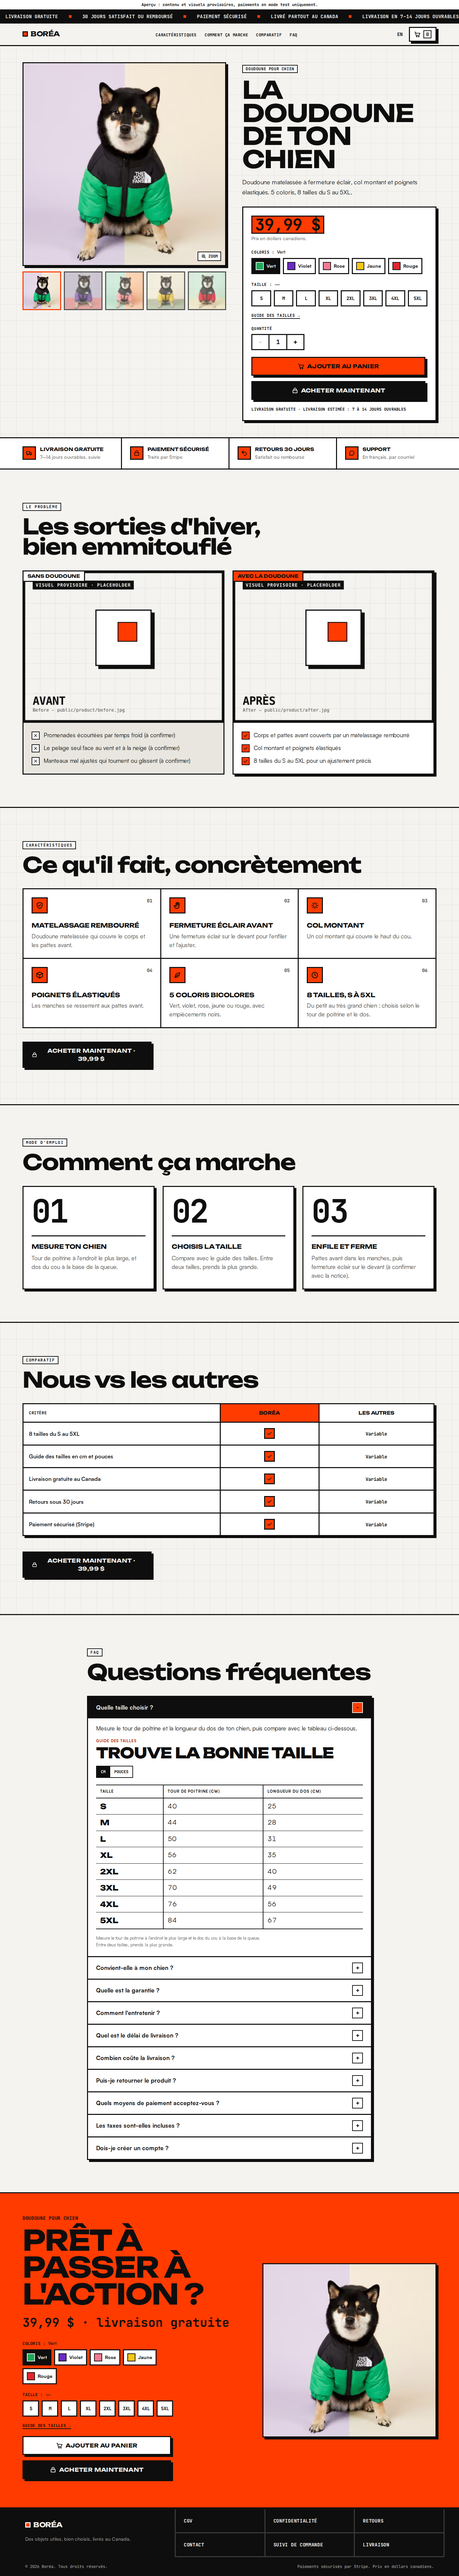
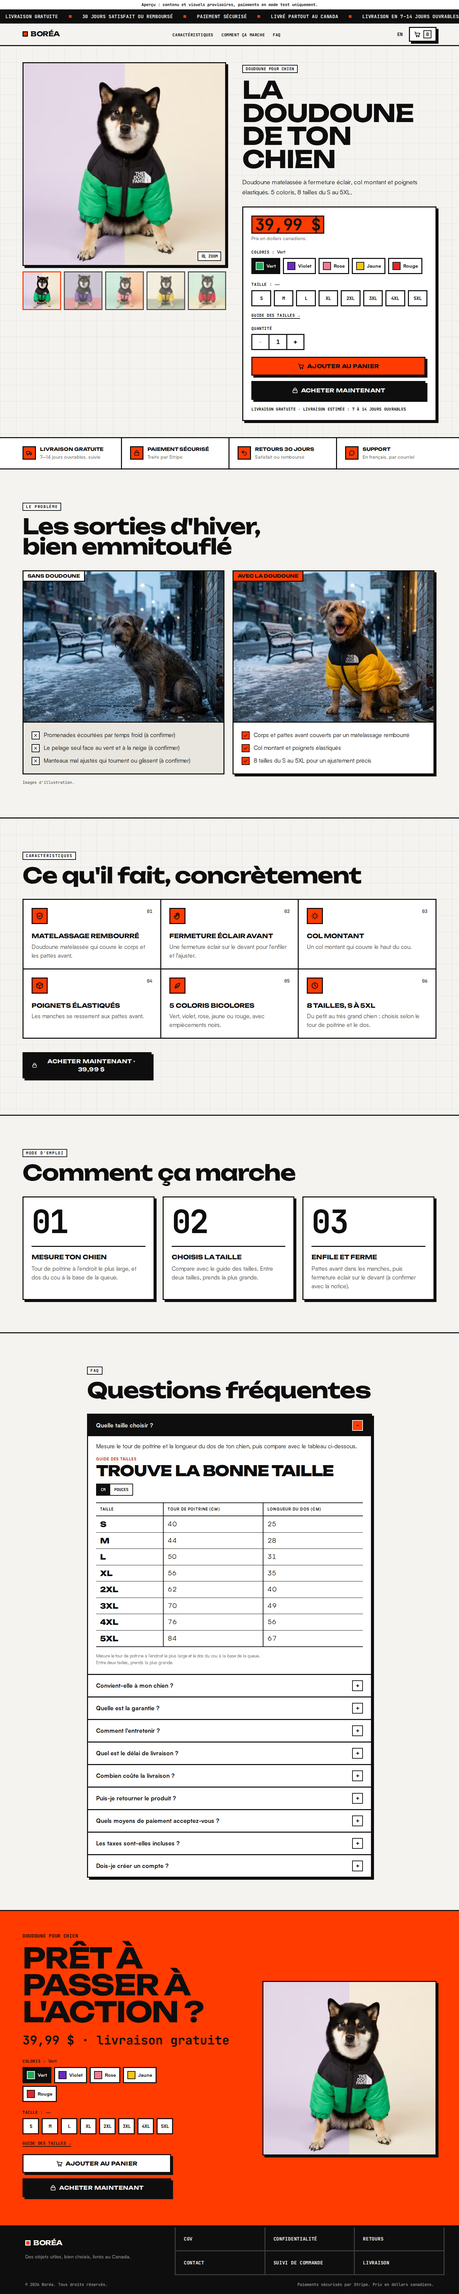
Avant/après avec photos réelles, retrait du comparatif « Nous vs les autres »
- Section avant/après : deux photos d'illustration fournies (chien sans
  doudoune / avec la doudoune jaune), cadrage ajusté, mention « Images
  d'illustration »
- Retrait de la section comparatif (page, navigation, données, textes, tests)
- Photos renommées pour éviter le cache de l'optimiseur d'images ; astuce
  documentée dans public/product/README.md et le README

Claude-Session: https://claude.ai/code/session_015ZWNekjjGsYSCxesdhKs7Q

Changed region(s): [[0.0, 0.0, 1.0, 0.9991]]

diff --git a/src/components/store/sections.tsx b/src/components/store/sections.tsx
@@ -1,7 +1,7 @@
 import Image from "next/image";
 import { getMedia, product, reviewSummary } from "@/config/product";
 import { store } from "@/config/store";
-import type { Locale, Localized } from "@/config/types";
+import type { Locale } from "@/config/types";
 import { fmt, getDictionary } from "@/content";
 import { defaultShipping, deliveryEstimate } from "@/lib/catalog";
 import { FeatureIcons, IconChat, IconCheck, IconClose, IconLock, IconReturn, IconTruck } from "../ui/icons";
@@ -47,7 +47,7 @@ export function ProblemSolution({ locale }: { locale: Locale }) {
   const col = (side: typeof ps.before, kind: "before" | "after") => (
     <div className={`flex flex-col border-[3px] border-ink ${kind === "after" ? "bg-white shadow-[var(--shadow-hard)]" : "bg-sand"}`}>
       <div className="relative border-b-[3px] border-ink">
-        <ProductImage media={getMedia(side.mediaId)} locale={locale} sizes="(min-width: 768px) 45vw, 100vw" className="aspect-[4/3] w-full object-cover" />
+        <ProductImage media={getMedia(side.mediaId)} locale={locale} sizes="(min-width: 768px) 45vw, 100vw" className="aspect-[4/3] w-full object-cover object-[62%_50%]" />
         <span className={`absolute left-0 top-0 border-b-[3px] border-r-[3px] border-ink px-3 py-1 font-display text-sm font-bold uppercase ${kind === "after" ? "bg-accent" : "bg-white"}`}>
           {side.title[locale]}
         </span>
@@ -74,6 +74,7 @@ export function ProblemSolution({ locale }: { locale: Locale }) {
         <Reveal>{col(ps.before, "before")}</Reveal>
         <Reveal delay={100}>{col(ps.after, "after")}</Reveal>
       </div>
+      <p className="mt-4 font-mono text-xs text-muted">{t.illustration}</p>
     </div>
   );
 }
@@ -174,56 +175,6 @@ export function Reviews({ locale }: { locale: Locale }) {
         </ul>
       </div>
     </section>
-  );
-}
-
-/** 9. Comparatif « Nous vs les autres » */
-export function Comparison({ locale }: { locale: Locale }) {
-  const t = getDictionary(locale).blocks;
-  const cell = (v: boolean | Localized, us: boolean) =>
-    typeof v === "boolean" ? (
-      <span className={`inline-flex size-8 items-center justify-center border-[3px] border-ink ${v ? (us ? "bg-accent" : "bg-white") : "bg-white"}`}>
-        {v ? <IconCheck width={18} height={18} /> : <IconClose width={16} height={16} />}
-        <span className="sr-only">{v ? t.yes : t.no}</span>
-      </span>
-    ) : (
-      <span className="font-mono text-xs font-bold sm:text-sm">{v[locale]}</span>
-    );
-  return (
-    <div className={wrap}>
-      <Reveal>
-        <Eyebrow>{t.compareEyebrow}</Eyebrow>
-        <SectionTitle id="compare-title">{t.compareTitle}</SectionTitle>
-      </Reveal>
-      <div className="mt-10 overflow-x-auto pb-[6px] pr-[6px]">
-        <table className="w-full border-collapse border-[3px] border-ink bg-white text-left shadow-[var(--shadow-hard)]">
-          <thead>
-            <tr>
-              <th scope="col" className="border-[3px] border-ink p-2 font-mono text-[11px] font-bold uppercase tracking-wider sm:p-4 sm:text-xs">
-                {t.compareFeature}
-              </th>
-              <th scope="col" className="w-[24%] border-[3px] border-ink bg-accent p-2 text-center font-display text-[11px] font-bold uppercase sm:p-4 sm:text-sm">
-                {store.brand.name}
-              </th>
-              <th scope="col" className="w-[28%] border-[3px] border-ink p-2 text-center font-display text-[11px] font-bold uppercase sm:p-4 sm:text-sm">
-                {product.comparison.othersLabel[locale]}
-              </th>
-            </tr>
-          </thead>
-          <tbody>
-            {product.comparison.rows.map((r, i) => (
-              <tr key={i}>
-                <th scope="row" className="border-[3px] border-ink p-2 text-sm font-semibold sm:p-4 sm:text-base">
-                  {r.label[locale]}
-                </th>
-                <td className="border-[3px] border-ink p-2 text-center sm:p-4">{cell(r.us, true)}</td>
-                <td className="border-[3px] border-ink p-2 text-center sm:p-4">{cell(r.others, false)}</td>
-              </tr>
-            ))}
-          </tbody>
-        </table>
-      </div>
-    </div>
   );
 }
 

diff --git a/data/product.ts b/data/product.ts
@@ -48,8 +48,8 @@ const media = {
   rouge: photo("rouge", "rouge.jpg", "Shiba inu portant la doudoune rouge et noire", "Shiba inu wearing the red and black puffer jacket", 1376, 768),
   detail1: placeholder("detail1", "detail-1.jpg", "détail et contenu du colis", "detail and box contents"),
   lifestyle: placeholder("lifestyle", "lifestyle.jpg", "produit en situation", "product in use", 1600, 1000),
-  before: placeholder("before", "before.jpg", "avant : le problème", "before: the problem", 1200, 900),
-  after: placeholder("after", "after.jpg", "après : la solution", "after: the solution", 1200, 900),
+  before: photo("before", "avant-hiver.jpg", "Chien sans manteau, assis sous la neige dans une rue en hiver", "Dog without a coat sitting in the snow on a winter street", 1376, 768),
+  after: photo("after", "apres-hiver.jpg", "Le même chien portant la doudoune jaune et noire sous la neige", "The same dog wearing the yellow and black puffer jacket in the snow", 1376, 768),
 } satisfies Record<string, MediaItem>;
 
 /** Coloris (l'ordre est celui du sélecteur). */
@@ -193,21 +193,6 @@ export const product = {
     { label: { fr: "Entretien", en: "Care" }, value: { fr: "À confirmer", en: "To be confirmed" } },
   ] satisfies Array<{ label: Localized; value: Localized }>,
   packageContents: [{ fr: "1 × doudoune pour chien", en: "1 × dog puffer jacket" }] satisfies Localized[],
-
-  /**
-   * Comparatif « Nous vs les autres ». Ne comparez que ce que vous pouvez prouver.
-   * `us` / `others` : true (✓), false (✗) ou un texte court.
-   */
-  comparison: {
-    othersLabel: { fr: "Les autres", en: "Others" } satisfies Localized,
-    rows: [
-      { label: { fr: "8 tailles du S au 5XL", en: "8 sizes from S to 5XL" }, us: true, others: { fr: "Variable", en: "Varies" } },
-      { label: { fr: "Guide des tailles en cm et pouces", en: "Size guide in cm and inches" }, us: true, others: { fr: "Variable", en: "Varies" } },
-      { label: { fr: "Livraison gratuite au Canada", en: "Free shipping in Canada" }, us: true, others: { fr: "Variable", en: "Varies" } },
-      { label: { fr: "Retours sous 30 jours", en: "30-day returns" }, us: true, others: { fr: "Variable", en: "Varies" } },
-      { label: { fr: "Paiement sécurisé (Stripe)", en: "Secure payment (Stripe)" }, us: true, others: { fr: "Variable", en: "Varies" } },
-    ] as Array<{ label: Localized; us: boolean | Localized; others: boolean | Localized }>,
-  },
 
   /** FAQ propre au produit. La question « Quelle taille choisir ? » affiche le tableau des tailles. */
   faq: [

diff --git a/tests/e2e/store.spec.ts b/tests/e2e/store.spec.ts
@@ -72,7 +72,8 @@ test.describe("boutique", () => {
     await expect(page.locator("#buy-box s")).toHaveCount(0);
     // Ordre des sections demandé.
     const ids = await page.locator("main > section[id]").evaluateAll((els) => els.map((e) => e.id));
-    expect(ids).toEqual(["problem", "features", "how", "compare", "faq", "final-cta"]);
+    expect(ids).toEqual(["problem", "features", "how", "faq", "final-cta"]);
+    await expect(page.locator("#compare")).toHaveCount(0);
     // Aucun débordement horizontal.
     // Aucun élément plus large que l'écran (sinon le navigateur mobile élargit la fenêtre de mise en page).
     const widths = await page.evaluate(() => ({ scroll: document.documentElement.scrollWidth, layout: window.innerWidth, client: document.documentElement.clientWidth }));
@@ -87,8 +88,8 @@ test.describe("boutique", () => {
     const page = await ctx.newPage();
     await page.goto(`${E2E_ENV.NEXT_PUBLIC_SITE_URL}/fr`);
     await page.screenshot({ path: `${SHOTS}/${info.project.name}-full.png`, fullPage: true });
-    await page.locator("#compare").scrollIntoViewIfNeeded();
-    await page.screenshot({ path: `${SHOTS}/${info.project.name}-compare.png` });
+    await page.locator("#problem").scrollIntoViewIfNeeded();
+    await page.screenshot({ path: `${SHOTS}/${info.project.name}-before-after.png` });
     await page.locator("#final-cta").scrollIntoViewIfNeeded();
     await page.screenshot({ path: `${SHOTS}/${info.project.name}-final-cta.png` });
     await page.getByRole("button", { name: /^Zoom —/ }).first().click();

diff --git a/src/app/(shop)/[locale]/page.tsx b/src/app/(shop)/[locale]/page.tsx
@@ -3,7 +3,7 @@ import { notFound } from "next/navigation";
 import { FinalCta } from "@/components/store/final-cta";
 import { Hero } from "@/components/store/hero";
 import { SectionCta } from "@/components/store/section-cta";
-import { Comparison, Faq, Features, HowItWorks, ProblemSolution, ReassuranceBand, Reviews } from "@/components/store/sections";
+import { Faq, Features, HowItWorks, ProblemSolution, ReassuranceBand, Reviews } from "@/components/store/sections";
 import { StickyBuyBar } from "@/components/store/sticky-bar";
 import { getMedia, product, reviewSummary } from "@/config/product";
 import { store } from "@/config/store";
@@ -106,10 +106,6 @@ export default async function HomePage({ params }: PageProps<"/[locale]">) {
 
       <Reviews locale={locale} />
 
-      <section id="compare" aria-labelledby="compare-title" className={`${section} bg-grid`}>
-        <Comparison locale={locale} />
-        <SectionCta id="compare" />
-      </section>
 
       <section id="faq" aria-labelledby="faq-title" className={section}>
         <Faq locale={locale} taxesAtCheckout={taxesAtCheckout} />

diff --git a/src/content/fr.ts b/src/content/fr.ts
@@ -183,6 +183,7 @@ export const fr = {
   },
   blocks: {
     reassurance: { shipping: "Livraison gratuite", shippingText: "{min}–{max} jours ouvrables, suivie", payment: "Paiement sécurisé", paymentText: "Traité par Stripe", returns: "Retours {days} jours", returnsText: "Satisfait ou remboursé", support: "Support", supportText: "En français, par courriel" },
+    illustration: "Images d'illustration.",
     problemEyebrow: "Le problème",
     featuresEyebrow: "Caractéristiques",
     featuresTitle: "Ce qu'il fait, concrètement",
@@ -191,10 +192,6 @@ export const fr = {
     reviewsEyebrow: "Avis clients",
     reviewsTitle: "Ce qu'en disent les clients",
     verified: "Achat vérifié",
-    compareEyebrow: "Comparatif",
-    compareTitle: "Nous vs les autres",
-    compareUs: "Nous",
-    compareFeature: "Critère",
     yes: "Oui",
     no: "Non",
     faqTitle: "Questions fréquentes",

diff --git a/src/content/en.ts b/src/content/en.ts
@@ -185,6 +185,7 @@ export const en: Dictionary = {
   },
   blocks: {
     reassurance: { shipping: "Free shipping", shippingText: "{min}–{max} business days, tracked", payment: "Secure payment", paymentText: "Processed by Stripe", returns: "{days}-day returns", returnsText: "Money-back guarantee", support: "Support", supportText: "In French and English, by email" },
+    illustration: "Illustrative images.",
     problemEyebrow: "The problem",
     featuresEyebrow: "Features",
     featuresTitle: "What it actually does",
@@ -193,10 +194,6 @@ export const en: Dictionary = {
     reviewsEyebrow: "Reviews",
     reviewsTitle: "What customers say",
     verified: "Verified purchase",
-    compareEyebrow: "Comparison",
-    compareTitle: "Us vs the others",
-    compareUs: "Us",
-    compareFeature: "Criteria",
     yes: "Yes",
     no: "No",
     faqTitle: "FAQ",

diff --git a/src/components/layout/header.tsx b/src/components/layout/header.tsx
@@ -28,7 +28,6 @@ export function Header() {
   const links = [
     { href: `${home}#features`, label: t.blocks.featuresEyebrow },
     { href: `${home}#how`, label: t.blocks.howTitle },
-    { href: `${home}#compare`, label: t.blocks.compareEyebrow },
     { href: `${home}#faq`, label: t.nav.faq },
   ];
 

diff --git a/README.md b/README.md
@@ -18,7 +18,7 @@ d'administration protégé et un traitement fournisseur manuel. Le français est
 > ⚠ **Contenu encore à confirmer.** La fiche AliExpress `1005005777504095` n'a pas pu être consultée
 > automatiquement (protection anti-robot / captcha). Les coloris, les tailles, le tableau des mesures et les
 > photos ont été fournis par le propriétaire. Les matériaux, l'entretien, le prix et les délais réels restent
-> « à confirmer ». Les visuels avant/après sont encore des gabarits « VISUEL PROVISOIRE ». Un bandeau « Aperçu » s'affiche et l'indexation est bloquée tant que
+> « à confirmer ». La section avant/après utilise deux photos d'illustration fournies par le propriétaire. Le comparatif « Nous vs les autres » a été retiré. Un bandeau « Aperçu » s'affiche et l'indexation est bloquée tant que
 > `product.confirmed` vaut `false`.
 
 Aperçus (générés par les tests e2e) : [`docs/preview/`](docs/preview/).
@@ -110,8 +110,9 @@ Toute l'information modifiable est centralisée :
 barré et les économies affichées. Le calcul (`src/lib/pricing.ts`) est partagé par le navigateur et le
 serveur. Le pourcentage d'économie est arrondi à la baisse.
 
-**Médias.** Remplacez les JPG provisoires de `public/product/` par vos photos (dont vous détenez les droits)
-**en gardant les mêmes noms**, puis passez `provisional: false` dans `data/product.ts`. Les images de la
+**Médias.** Déposez vos photos (dont vous détenez les droits) dans `public/product/` et référencez-les
+dans `data/product.ts` (`provisional: false`). Donnez un **nouveau nom** à une photo remplacée : sinon le
+cache de l'optimiseur d'images peut afficher l'ancienne version pendant plusieurs heures. Les images de la
 galerie sont carrées : prévoyez un sujet centré. Les liens directs vers les images du fournisseur sont à éviter.
 
 **Avis.** La section reste masquée tant que `product.reviews` est vide. N'y mettez que de vrais avis,

diff --git a/public/product/README.md b/public/product/README.md
@@ -9,3 +9,8 @@ Puis, dans `data/product.ts`, passez `provisional: false` (et ajustez `width`/`h
 Évitez les liens directs vers les images du fournisseur.
 
 Photos d'avis (vrais avis uniquement) : `reviews/`.
+
+**Astuce cache.** L'optimiseur d'images de Next.js conserve les versions redimensionnées (jusqu'à
+4 h en Next 16). Si vous remplacez une photo **en gardant le même nom**, l'ancienne peut encore
+s'afficher : donnez un nouveau nom au fichier (et mettez à jour `data/product.ts`), ou supprimez
+`.next/cache/images` puis relancez le serveur.
